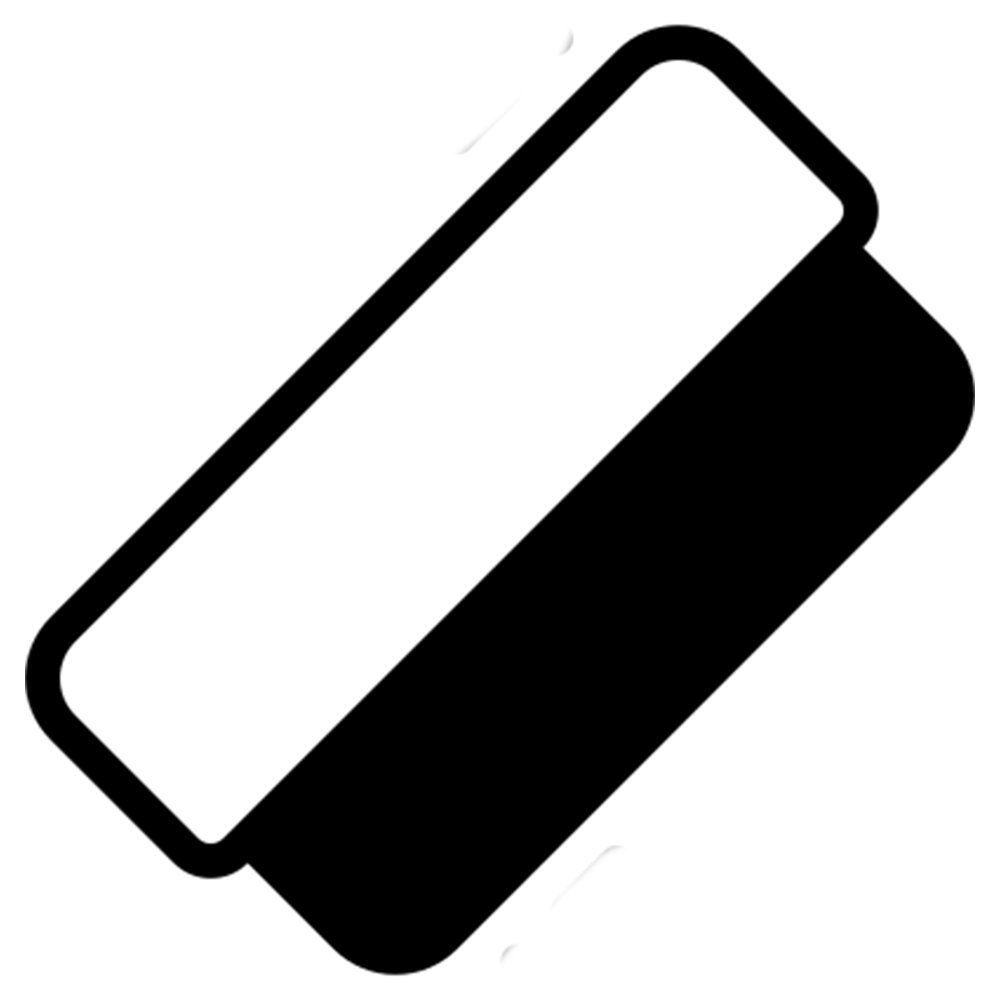
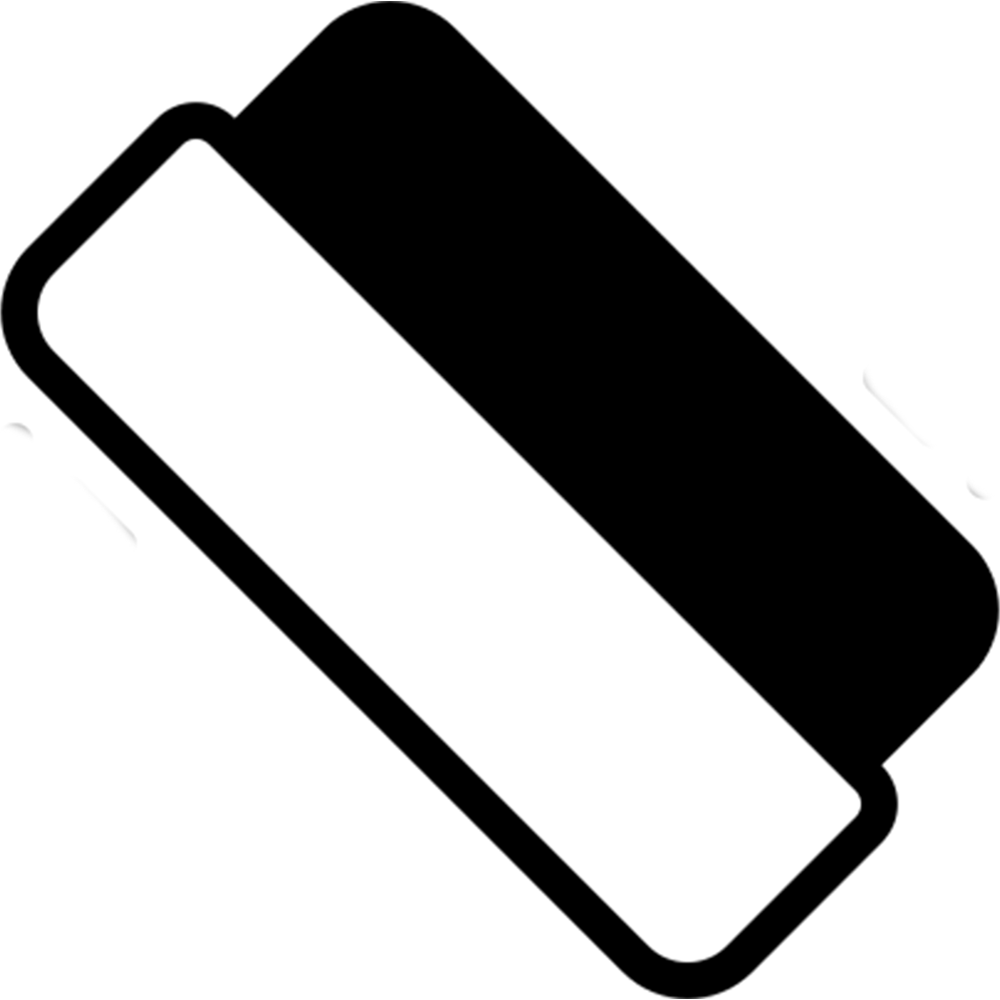
Added front and back end tools functionality erase/draw

diff --git a/Public/script.js b/Public/script.js
@@ -7,10 +7,11 @@ var socket = io();
 var users = []
 socket.on("usersupdate", client => {
     users = client.users;
-    document.getElementById("userlist").innerHTML = "<u><strong>USERS</strong></u> <br><br>";
+    document.getElementById("userlist").innerHTML = "<strong>USERS</strong> <hr>";
     for (var i = 0; i < users.length; i++) {
         document.getElementById("userlist").innerHTML += users[i] + "<br>";
     }
+    document.getElementById("code").innerHTML = "\"" + client.roomCode + "\"";
 });
 
 var userName = null;
@@ -77,15 +78,17 @@ function translation() {
 var canvas = document.querySelector(".whiteboard");
 var context = canvas.getContext("2d");
 var tool = "draw";
+var idTempTool = "draw";
+var idTempColor = "black";
 var drawing = false;
 var erasing = false;
-var current = { color: "black", strokeSize: "10" };
-var idTemp = "black";
+var current = { color: "black", strokeSize: 10 };
 
 function toolCurrent(id) {
     tool = id;
-    console.log(tool);
-    console.log("Test");
+    document.getElementById(idTempTool).firstChild.className = "tool"
+    document.getElementById(id).firstChild.className = "tool2"
+    idTempTool = id
 }
 
 document.getElementById("slider").oninput = () => {
@@ -94,9 +97,9 @@ document.getElementById("slider").oninput = () => {
 
 function colorChange(id) {
     current.color = id
-    document.getElementById(idTemp).className = "color"
+    document.getElementById(idTempColor).className = "color"
     document.getElementById(id).className = "color2"
-    idTemp = id;
+    idTempColor = id;
 }
 
 function throttle(callback, delay) {
@@ -139,56 +142,74 @@ function drawLine(x0, y0, x1, y1, color, strokeSize, emit) {
 }
 
 function eraseLine(x, y, radius, emit) {
+
     context.beginPath();
     context.arc(x, y, radius, 0, 2 * Math.PI, false);
+    context.closePath();
+
+    context.save();
     context.clip();
-    context.clearRect(x-radius - 1, y - radius - 1, radius * 2 + 2, radius * 2 + 2);
+    context.clearRect(0, 0, canvas.width, canvas.height);
+    context.restore();
 
     if (!emit) {
         return;
     }
+    
+    var w = canvas.width;
+    var h = canvas.height;
 
-    socket.emit("erasing", {x, y, radius}); 
+    socket.emit("erasing", {x: x / w, y: y / h, radius}); 
 }
 
 function onMouseDown(e) {
-    drawing = true;
-    current.x = e.clientX || e.touches[0].clientX;
-    current.y = e.clientY || e.touches[0].clientY;
+    if (tool == "draw") {
+        drawing = true;
+        current.x = e.clientX || e.touches[0].clientX;
+        current.y = e.clientY || e.touches[0].clientY;
+    }
+    else if (tool == "erase") {
+        erasing = true;
+    }
 }
 
 
 function onMouseUp(e) {
-    if (!drawing) {
-        return;
+    if (erasing) {
+        erasing = false;
+        eraseLine(e.clientX, e.clientY, current.strokeSize, true);
     }
-    drawing = false;
-    drawLine(
-        current.x,
-        current.y,
-        e.clientX || e.touches[0].clientX,
-        e.clientY || e.touches[0].clientY,
-        current.color,
-        current.strokeSize,
-        true
-    );
+    else if(drawing) {
+        drawing = false;
+        drawLine(
+            current.x,
+            current.y,
+            e.clientX || e.touches[0].clientX,
+            e.clientY || e.touches[0].clientY,
+            current.color,
+            current.strokeSize,
+            true
+        );
+    }
 }
 
 function onMouseMove(e) {
-    if (!drawing) {
-        return;
+    if (erasing) {
+        eraseLine(e.clientX, e.clientY, current.strokeSize, true)
     }
-    drawLine(
-        current.x,
-        current.y,
-        e.clientX || e.touches[0].clientX,
-        e.clientY || e.touches[0].clientY,
-        current.color,
-        current.strokeSize,
-        true
-    );
-    current.x = e.clientX || e.touches[0].clientX;
-    current.y = e.clientY || e.touches[0].clientY;
+    else if (drawing) {
+        drawLine(
+            current.x,
+            current.y,
+            e.clientX || e.touches[0].clientX,
+            e.clientY || e.touches[0].clientY,
+            current.color,
+            current.strokeSize,
+            true
+        );
+        current.x = e.clientX || e.touches[0].clientX;
+        current.y = e.clientY || e.touches[0].clientY;
+    }
 }
 
 // dekstop events
@@ -218,3 +239,10 @@ function onDrawingEvent(data) {
     drawLine(data.x0 * w, data.y0 * h, data.x1 * w, data.y1 * h, data.color, data.strokeSize);
 }
 socket.on("drawing", onDrawingEvent);
+
+function onErasingEvent(data) {
+    var w = canvas.width;
+    var h = canvas.height;
+    eraseLine(data.x * w, data.y * h, data.radius);
+}
+socket.on("erasing", onErasingEvent);

diff --git a/Public/style.css b/Public/style.css
@@ -14,8 +14,6 @@ body {
 
 #UI {
     position: absolute;
-    margin-left: auto;
-    margin-right: auto;
     left: 0;
     right: 0;
     text-align: center;
@@ -39,7 +37,13 @@ body {
     cursor: pointer;
     margin-top: 0px;
 }
+input[type='range'] {
+    filter: invert(76%) sepia(79%) saturate(680%) hue-rotate(145deg) brightness(125%) contrast(102%);
+}
 
+#buttons {
+    margin-right: 30px;
+}
 
 .color {
     position: relative;
@@ -52,7 +56,6 @@ body {
     cursor: pointer;
 }
 .color:hover {
-    border: 5px solid rgba(0, 255, 255, 0.5);
     padding: 45px;
     transition: 0.5s;
 }
@@ -75,29 +78,56 @@ body {
 #green {
     background-color: green;
 }
-#blue{
+#blue {
     background-color: blue;
 }
+#yellow {
+    background-color: yellow;
+}
 
-#tools {
-    display: inline;
-    margin-left: 10px;
-    pointer-events: all;
-}
 .tool {
-    width: 30px;
-    height: auto;
-    transition: 0.5s;
-}
-.tool:hover {
     width: 45px;
     height: auto;
     transition: 0.5s;
 }
+.tool:hover {
+    width: 55px;
+    height: auto;
+    transition: 0.5s;
+}
+.tool2 {
+    width: 55px;
+    height: auto;
+    transition: 0.5s;
+}
+.tool2 {
+    filter: invert(95%) sepia(28%) saturate(6641%) hue-rotate(102deg) brightness(106%) contrast(101%);
+    transition: 0s;
+}
+#tools {
+    position: absolute;
+    left: 0;
+    right: 0;
+    text-align: center;
+    width: 100%;
+    bottom: 1%;
+    margin-bottom: 0px;
+    z-index: 2;
+    pointer-events: none;
+}
 #erase {
+    pointer-events: all;
+    cursor: pointer;
     background: none;
     border: none;
-    vertical-align: middle;
+    margin-right: 190px;
+}
+#draw {
+    pointer-events: all;
+    cursor: pointer;
+    background: none;
+    border: none;
+    margin-left: 180px;
 }
 
 /* draw.html css */
@@ -117,6 +147,9 @@ body {
     border: 50px;
     border-radius: 25px;
     z-index: 5;
+}
+hr {
+    border-top: 2px solid white;
 }
 
 #userinput {
@@ -169,7 +202,7 @@ body {
 #hide {
     opacity: 0%;
     pointer-events: none;
-    transition: 0.5s;
+    transition: 0.7s;
 }
 
 
@@ -210,6 +243,16 @@ body {
     text-align: center;
     z-index: 3;
     transition: 0.5s;
+}
+
+#roomcode {
+    width: 80%;
+    right: 10%;
+    position: absolute;
+    bottom: 5px;  
+    font-size: 20px;
+    font-family:"Arial",Times,serif;
+    color: white;  
 }
 
 #arrowR {
@@ -256,8 +299,8 @@ body {
 #blur {
     position: absolute;
     background-color: rgba(255, 255, 255, 0.1);
-    -webkit-backdrop-filter: blur(3px);
-    backdrop-filter: blur(3px);
+    -webkit-backdrop-filter: blur(4px);
+    backdrop-filter: blur(4px);
     width: 100%;
     height: 100%;
     z-index: 4;

diff --git a/app.js b/app.js
@@ -19,8 +19,10 @@ const onConnection = socket => {
                 return;
             }
         }
+
         io.to(socket.id).emit("valid");
         socket.join(user.roomCode);
+        
         var user = {
             roomCode: user.roomCode,
             users: [user.userName],
@@ -28,17 +30,22 @@ const onConnection = socket => {
         };
         clients.push(user);
         io.in(user.roomCode).emit("usersupdate", clients[clients.length - 1])
+
         socket.on("drawing", data => socket.broadcast.to(user.roomCode).emit("drawing", data)); // broadcast data to all clients in room
+        socket.on("erasing", data => socket.broadcast.to(user.roomCode).emit("erasing", data));
     });
     socket.on("joined", user => {
         for (var i = 0; i < clients.length; i++) {
             if (clients[i].roomCode == user.roomCode) {
                 io.to(socket.id).emit("valid");
                 socket.join(user.roomCode);
+
                 clients[i].users.push(user.userName);
                 clients[i].identities.push(socket.id);
                 io.in(user.roomCode).emit("usersupdate", clients[i]);
+
                 socket.on("drawing", data => socket.broadcast.to(user.roomCode).emit("drawing", data)); // broadcast data to all clients in room
+                socket.on("erasing", data => socket.broadcast.to(user.roomCode).emit("erasing", data));
                 return;
             }
         }

diff --git a/Public/index.html b/Public/index.html
@@ -31,6 +31,10 @@
 
         <div class="users" id="container">
             <div id="userlist"></div>
+            <span id="roomcode">
+                <h3><hr><strong>Room Code</strong></h3>
+                <p id="code"></p>
+            </span>
         </div>
         <button onclick="translation()" id="arrowR"><strong>></strong></button>
 
@@ -44,11 +48,14 @@
                 <button onclick="colorChange(id)" class = "color" id = "red"></button>
                 <button onclick="colorChange(id)" class = "color" id = "green"></button>
                 <button onclick="colorChange(id)" class = "color" id = "blue"></button>
-        
-                <div id="tools">
-                    <button onclick="toolCurrent(id)" id="erase"><img src="./Assets/eraser.png" id="eraser" class="tool"></button>
-                </div>
+                <button onclick="colorChange(id)" class = "color" id = "yellow"></button>
             </div>
+            
+            <div id="tools">
+                <button onclick="toolCurrent(id)" id="erase"><img src="./Assets/eraser.png" id="eraser" class="tool"></button>
+                <button onclick="toolCurrent(id)" id="draw"><img src="./Assets/drawer.png" id="drawer" class="tool2"></button>
+            </div>
+            
             <input type="range" min="1" max="55" value="10" id="slider">
         </div>
 
